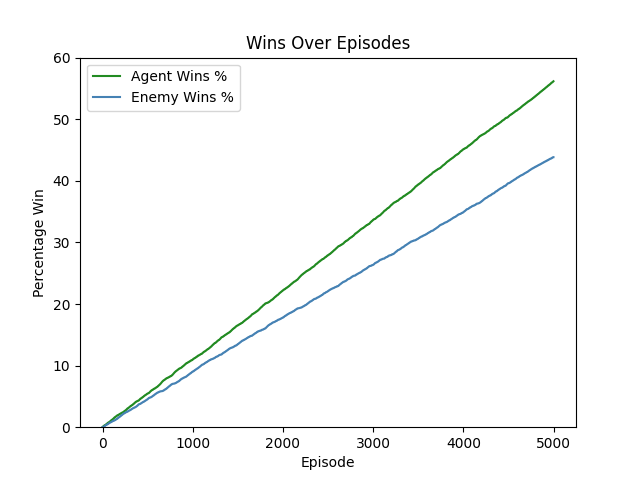
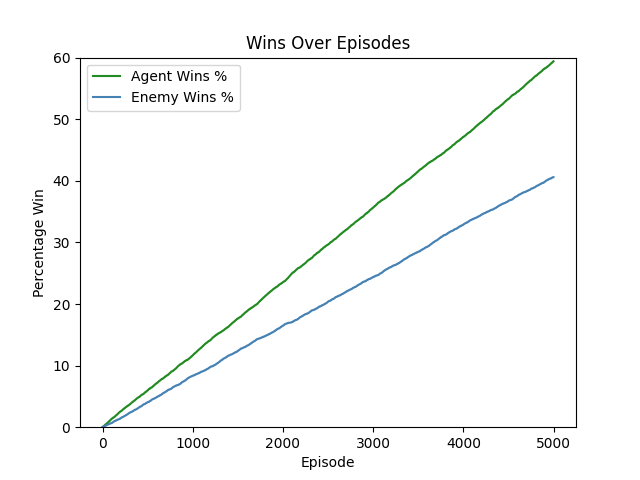
update q_learning model

diff --git a/training/q_learning.py b/training/q_learning.py
@@ -10,13 +10,13 @@ from environment.rewards import states
 from training.utils import draw_wins_plot_over_episodes
 
 
-SAVE_CSV_RESULTS = True     # True in grid search mode, else False.
-SAVE_PLOTS = False           # True when not in grid search mode, else False.
-SELF_PLAY = False
+SAVE_CSV_RESULTS = False     # True in grid search mode, else False.
+SAVE_PLOTS = True            # True when not in grid search mode, else False.
+SELF_PLAY = True
 
 
 PLOTS_DIR = "../results/plots"
-WIN_FILE = os.path.join(PLOTS_DIR, "wins_plot_q_larning_self_play.png") if SELF_PLAY else os.path.join(PLOTS_DIR, "wins_plot_q_larning.png")
+WIN_FILE = os.path.join(PLOTS_DIR, "wins_plot_q_learning_self_play.png") if SELF_PLAY else os.path.join(PLOTS_DIR, "wins_plot_q_learning.png")
 
 
 def training_episodes(num_of_episodes: int, exploration_prob: float, learning_rate: float, discount_factor: float) -> tuple:
@@ -156,14 +156,14 @@ if __name__ == '__main__':
     num_episodes = 5000
 
     # Uncomment this part for grid search.
-    exploration_probabilities = [0.1, 0.2, 0.3]
-    learning_rates = [0.3, 0.4, 0.5]
-    discount_factors = [0.3, 0.5, 0.7, 0.9]
+    # exploration_probabilities = [0.1, 0.2, 0.3]
+    # learning_rates = [0.3, 0.4, 0.5]
+    # discount_factors = [0.3, 0.5, 0.7, 0.9]
 
     # The best configuration.
-    # exploration_probabilities = [0.2]
-    # learning_rates = [0.3]
-    # discount_factors = [0.3]
+    exploration_probabilities = [0.1]
+    learning_rates = [0.3]
+    discount_factors = [0.5]
 
     best_percentage_win_agent = 0
 

diff --git a/test/q_learning.py b/test/q_learning.py
@@ -134,14 +134,14 @@ if __name__ == '__main__':
     np.random.seed(42)
     num_wins_agent = 0
 
-    mode = 'Q_SELF-VS-RANDOM'
+    mode = 'Q-VS-RANDOM'
 
-    for i in tqdm(range(0, 10000), desc='Game progress'):
+    for i in tqdm(range(0, 5000), desc='Game progress'):
         win_agent = execute(mode)
         if win_agent:
             num_wins_agent += 1
 
-    percentage_win_agent = (num_wins_agent / 10000) * 100
+    percentage_win_agent = (num_wins_agent / 5000) * 100
     print(f'\nMode: {mode}')
     print(f'Percentage win agent: {percentage_win_agent}')
     print(f'Percentage win enemy: {100 - percentage_win_agent}')
